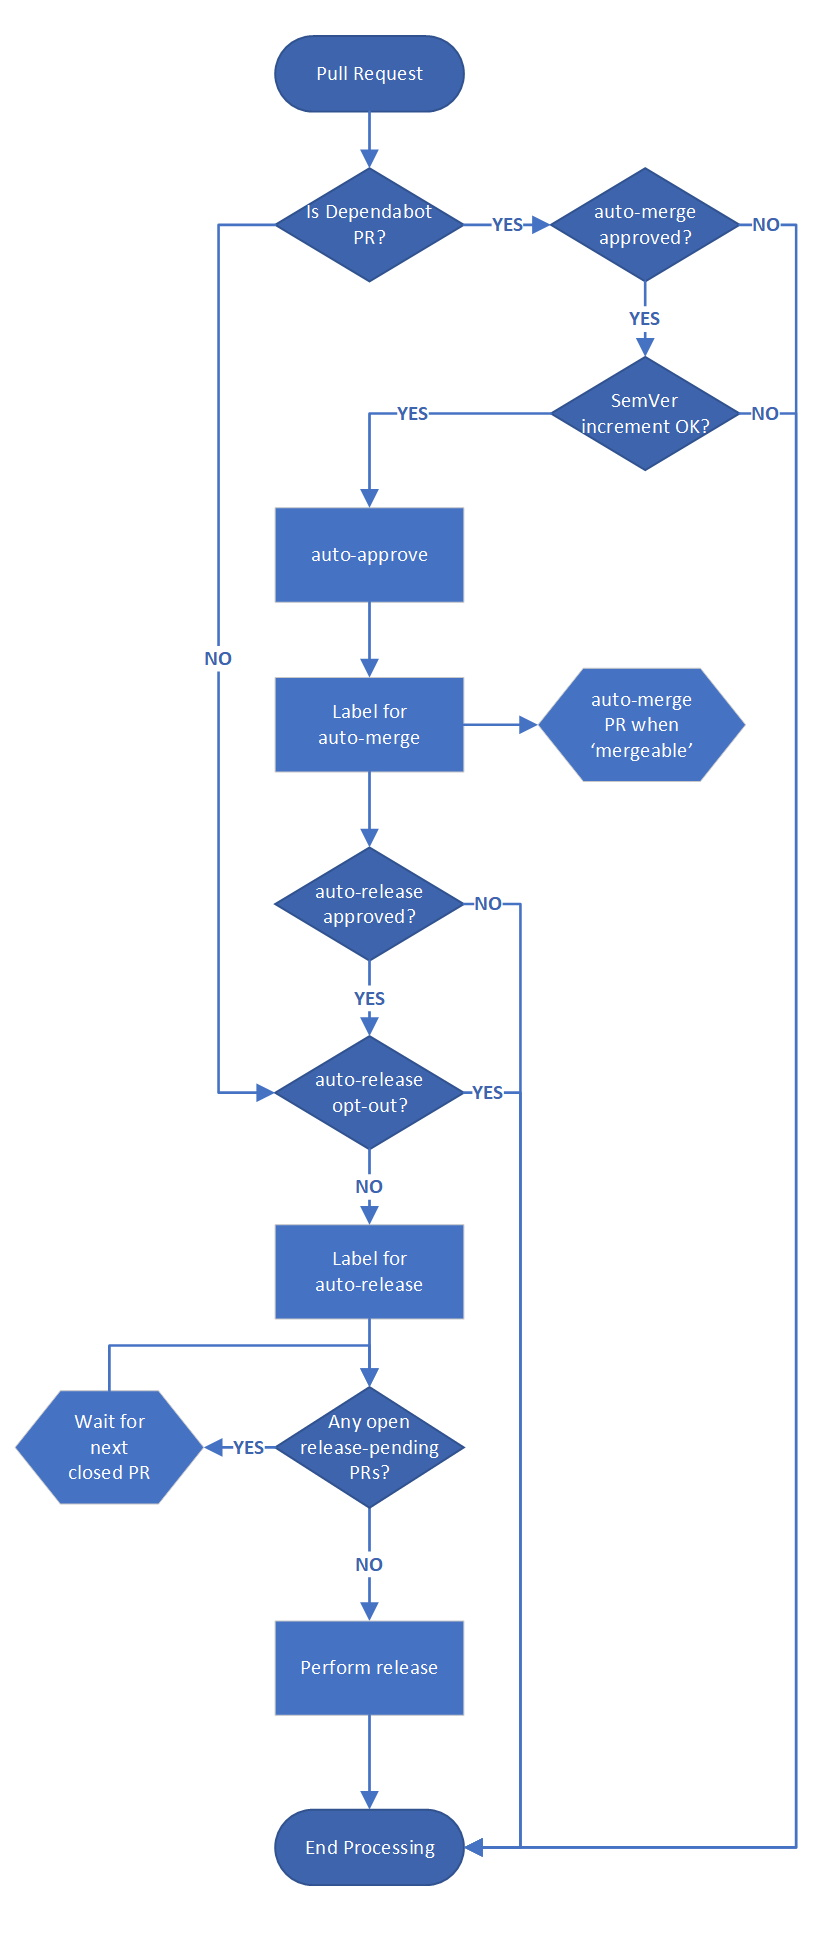
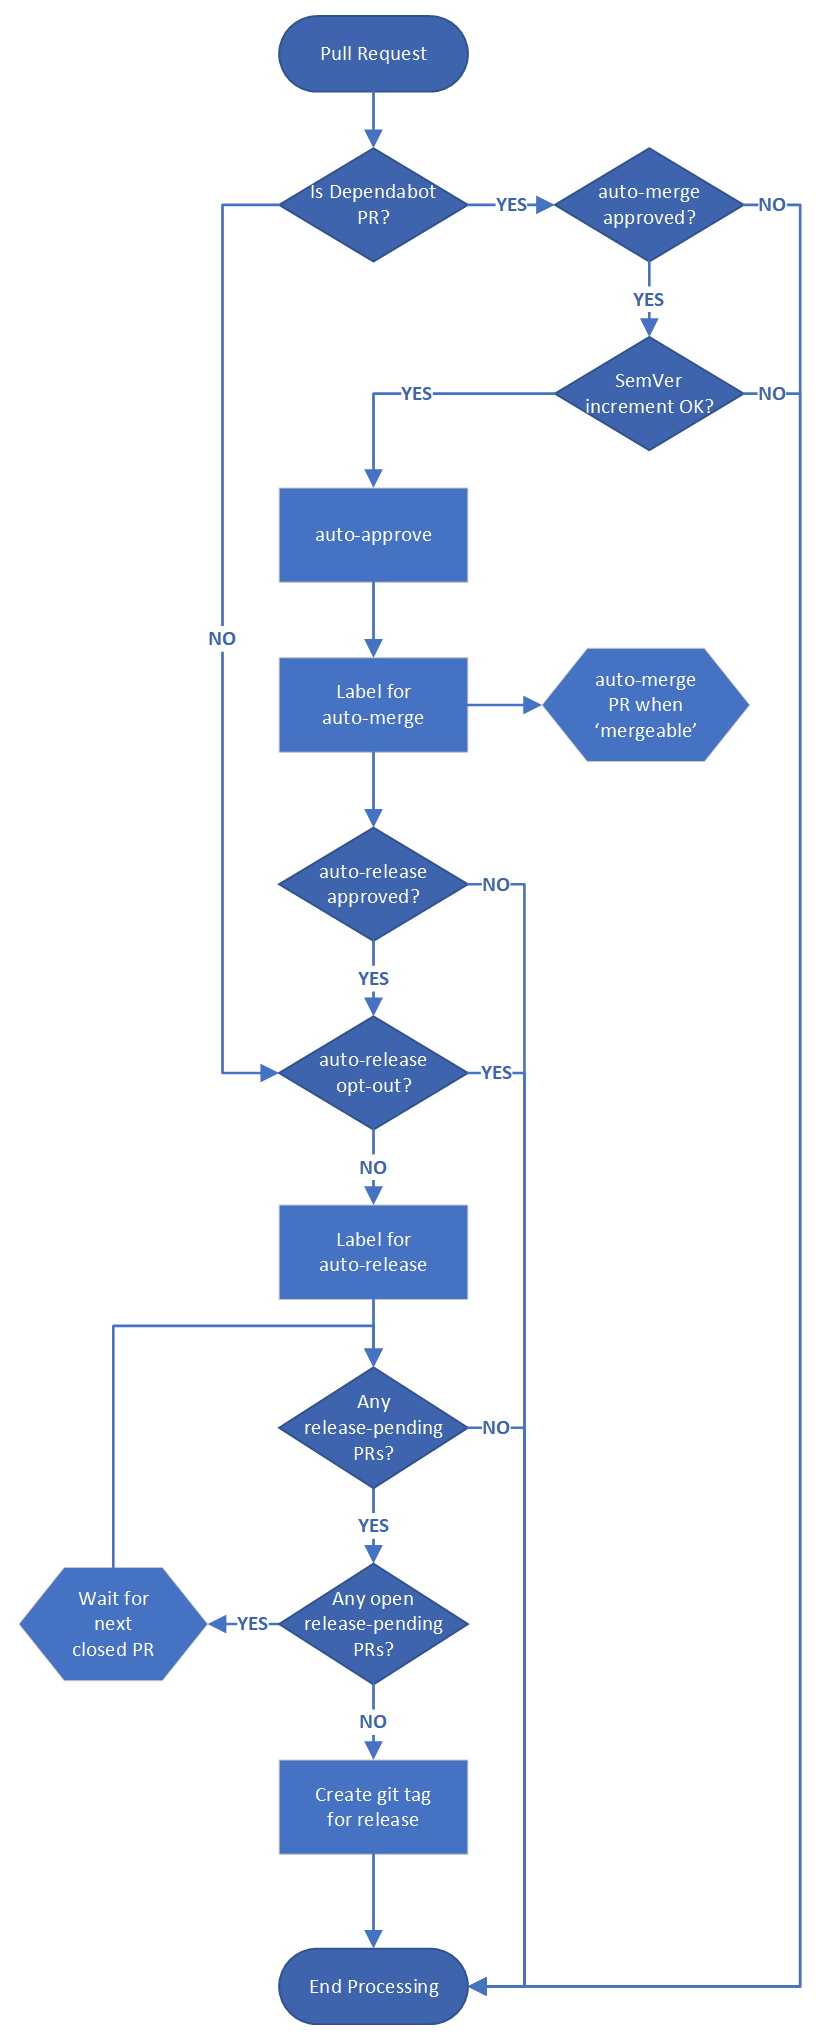
Added implementation details and associated limitations Updated flowchart

Changed region(s): [[0.0305, 0.0, 0.9756, 1.0], [0.6402, 0.3093, 0.9146, 0.4021]]

diff --git a/docs/adr/0001-automated-dependency-release-management.md b/docs/adr/0001-automated-dependency-release-management.md
@@ -15,7 +15,7 @@ Before committing a dependency update there are several considerations:
 * Should this dependency update trigger a new release?  If so, how should such updates be batched?
 * To what extent could this update trigger a cascading update across other repositories?
 
-This ADR describes an automation process that can reduce the burden associated with such updates and their cascading effects, whilst still providing control mechanisms to prevent unrestricted updates.
+This ADR describes an automated process that can reduce the burden associated with such updates and their cascading effects, whilst still providing control mechanisms to prevent unrestricted updates.
 
 **NOTE**: *The process, as described, assumes the use GitHub Dependabot (as opposed to the dependabot.io service that has slightly different functionality)*
 
@@ -27,31 +27,58 @@ The process for approving, merging and releasing these types of updates can be a
 
 A number of terms are used to describe the process, they are defined as follows:
 
-* `semver-increment`: The scale of a given change as indicated by the change in the semantic version (i.e. patch, minor, major)
+* `semver-increment`: The scale of a given update as indicated by the change in the semantic version (i.e. patch, minor, major)
 * `auto-approve`: The process of a CI/CD bot approving a pull request
 * `auto-merge`: The process of a pull request being merged by a bot, once in a mergeable state (e.g. passing checks, approved etc.)
 * `auto-merge-candidate`: A pull request that is approved for `auto-merge`
 * `auto-release`: The process of triggering the release pipeline of the consuming project (e.g. creating a git tag)
 * `auto-release-candidate`: A pull request that is approved for `auto-release`
 * `no-release`: An override mechanism for suppressing the `auto-release` behaviour
-* `release-pending`: The state a pull request can be in when it is approved for `auto-release`
+* `release-pending`: The state a pull request is in when it is approved for `auto-release`
 
 ### Principles
 
-These set out the basic requirements for this process we wish to automate.
+These set out the core requirements for the process we wish to automate.
 
-1. Dependabot updates can utilise `auto-approve` and `auto-merge`, based on an allow list
-1. Dependabot updates otherwise approved for `auto-merge` can be opted-out based on their `semver-increment` - by default, 'major' changes are ignored by this process
-1. Dependabot updates approved for `auto-merge` can additionally utilise `auto-release`, based on an allow list
+1. Dependabot updates can utilise `auto-approve` and `auto-merge` based on an allow list of package names
+1. Dependabot updates otherwise approved for `auto-merge` can be opted-out based on their `semver-increment` - by default, 'major' changes should be ignored by this process
+1. Dependabot updates approved for `auto-merge` can additionally utilise `auto-release`, based on an allow list of package names
 1. Regular pull requests must never utilise `auto-approve`
 1. Regular pull requests will, by default, utilise `auto-release`
 1. Regular pull requests may opt-out of `auto-release`
 1. All `auto-release-candidate` pull requests must be batched together, to avoid unnecesary release churn
 
-The process that implements these mechanisms is illustrated in the following flowchart diagram:
+A process that implements these mechanisms is illustrated in the following flowchart diagram:
 
 ![pr-autoflow: High-Level Process Flow][flowchart]
 
+### Implementation
+
+The current implementation consists of the following components:
+
+* a PowerShell module [`Endjin.PRAutoflow`](/module) - implements the pull request title parsing and version comparison logic
+* 2 x GitHub Actions (docker-based)
+    * [`dependabot-pr-parser`](/actions/dependabot-pr-parser) - given a PR title, it identifies Dependabot pull requests that meet the specified naming & `semver-increment` criteria and extracts the required metadata
+    * [`dependabot-pr-watcher`](/actions/dependabot-pr-parser) - given a list of PR titles, it returns those that meet the specified naming criteria
+* 3 x GitHub Actions workflows:
+    * [`dependabot_approve_and_label`](https://github.com/endjin/.github/workflow-templates/dependabot_approve_and_label.yml)
+    * [`auto_merge`](https://github.com/endjin/.github/workflow-templates/auto_merge.yml)
+    * [`auto_release`](https://github.com/endjin/.github/workflow-templates/auto_release.yml)
+
+These are used to identify `auto-merge-candidate` and `auto-release-candidate` pull requests and perform the required processing on them.
+
+The Pull Request title parsing expects the following convention:
+
+```
+Bump <PackageName> from <FromVersion> to <ToVersion> in <SolutionName>
+```
+
+### Limitations
+
+The current implementation is tailored to the NuGet eco-system which results in the following limitations:
+
+* The pull request title parsing is unlikely to work for Dependabot pull requests created for other eco-systems
+* The [`auto_release`](https://github.com/endjin/.github/workflow-templates/auto_release.yml) workflow utilises [GitVersion](https://gitversion.net/docs/) (a cross-platform .Net tool) to generate the version number used to create the release tag, which implies certain expectations in terms of git usage
 
 ## Consequences
 
@@ -59,6 +86,7 @@ The process that implements these mechanisms is illustrated in the following flo
 * Control over which dependencies benefit from this automation whilst ensuring that, for example, major changes to such dependencies still require manual approval
 * Streamlines a continuous delivery process for the typical pull request workflow
 * By combining `auto-merge` with `auto-release`, dependency updates can automatically propogate through a hierarchy of related repositories with manual intervention only by exception
+* The use of [NuGet meta-packages](https://endjin.com/blog/2020/09/streamline-dependency-management-with-nuget-meta-packages) can further streamline the full-hierarchy propogation process
 
 ## Future Considerations
 
